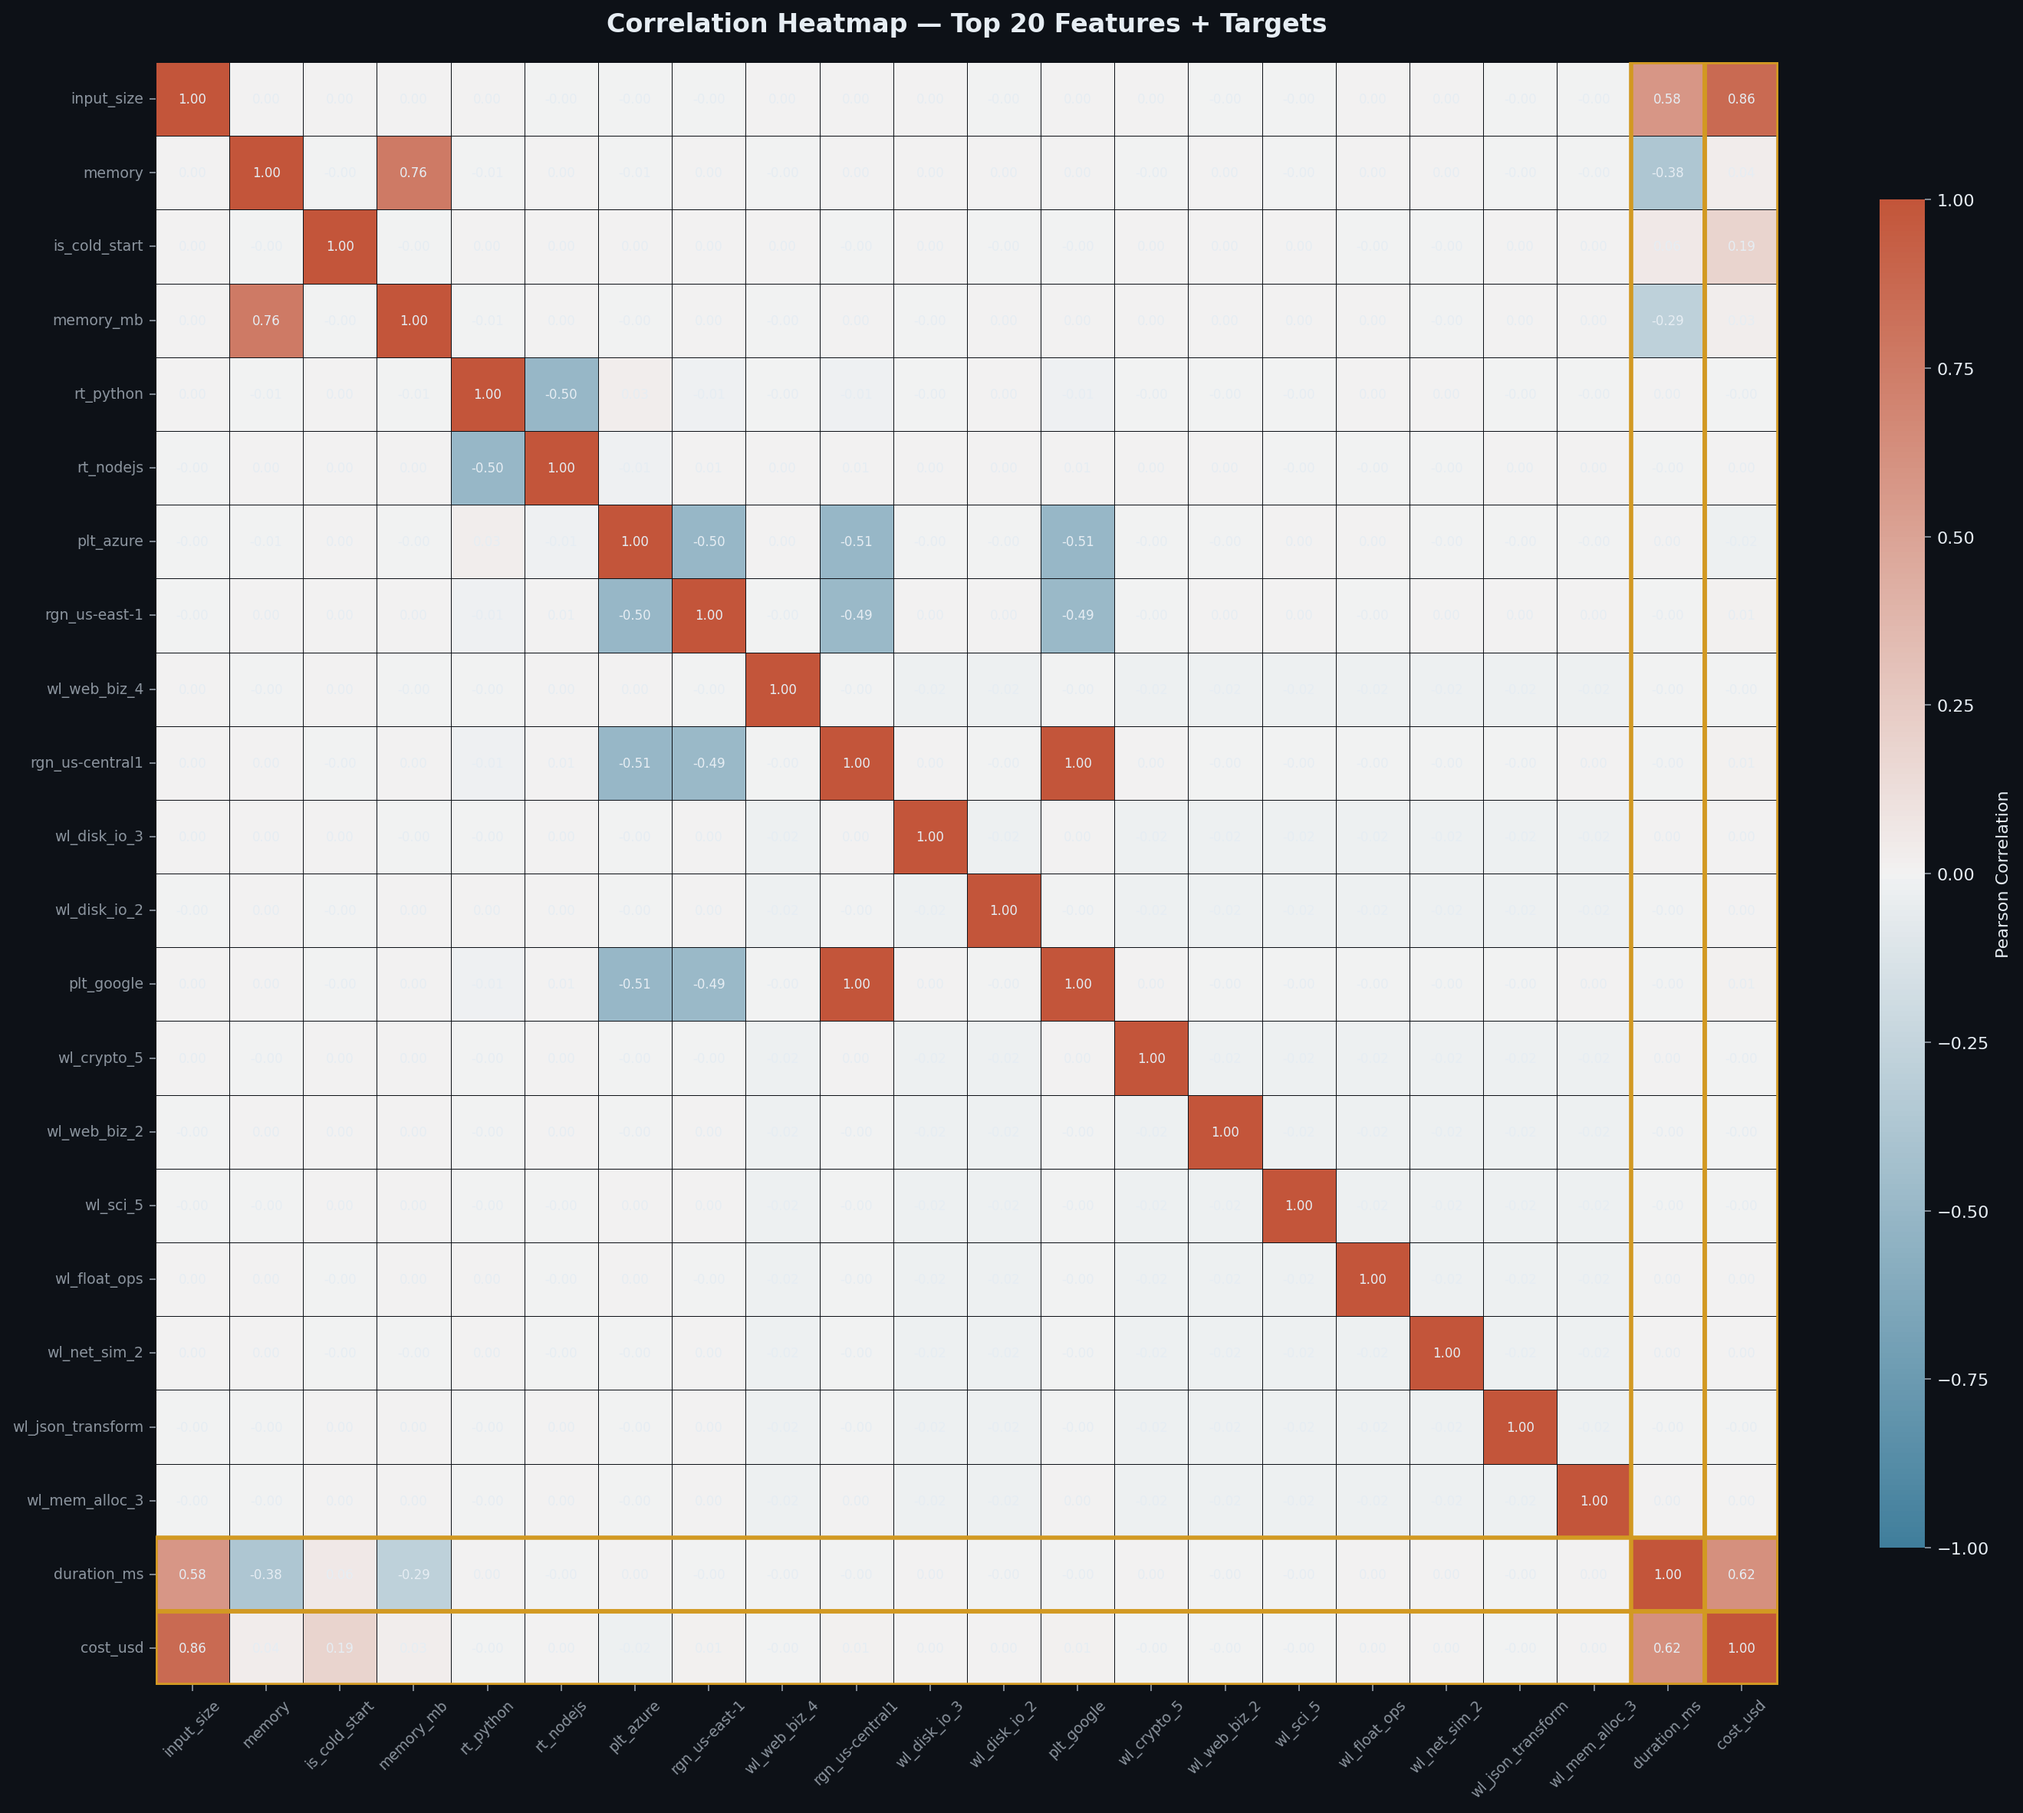
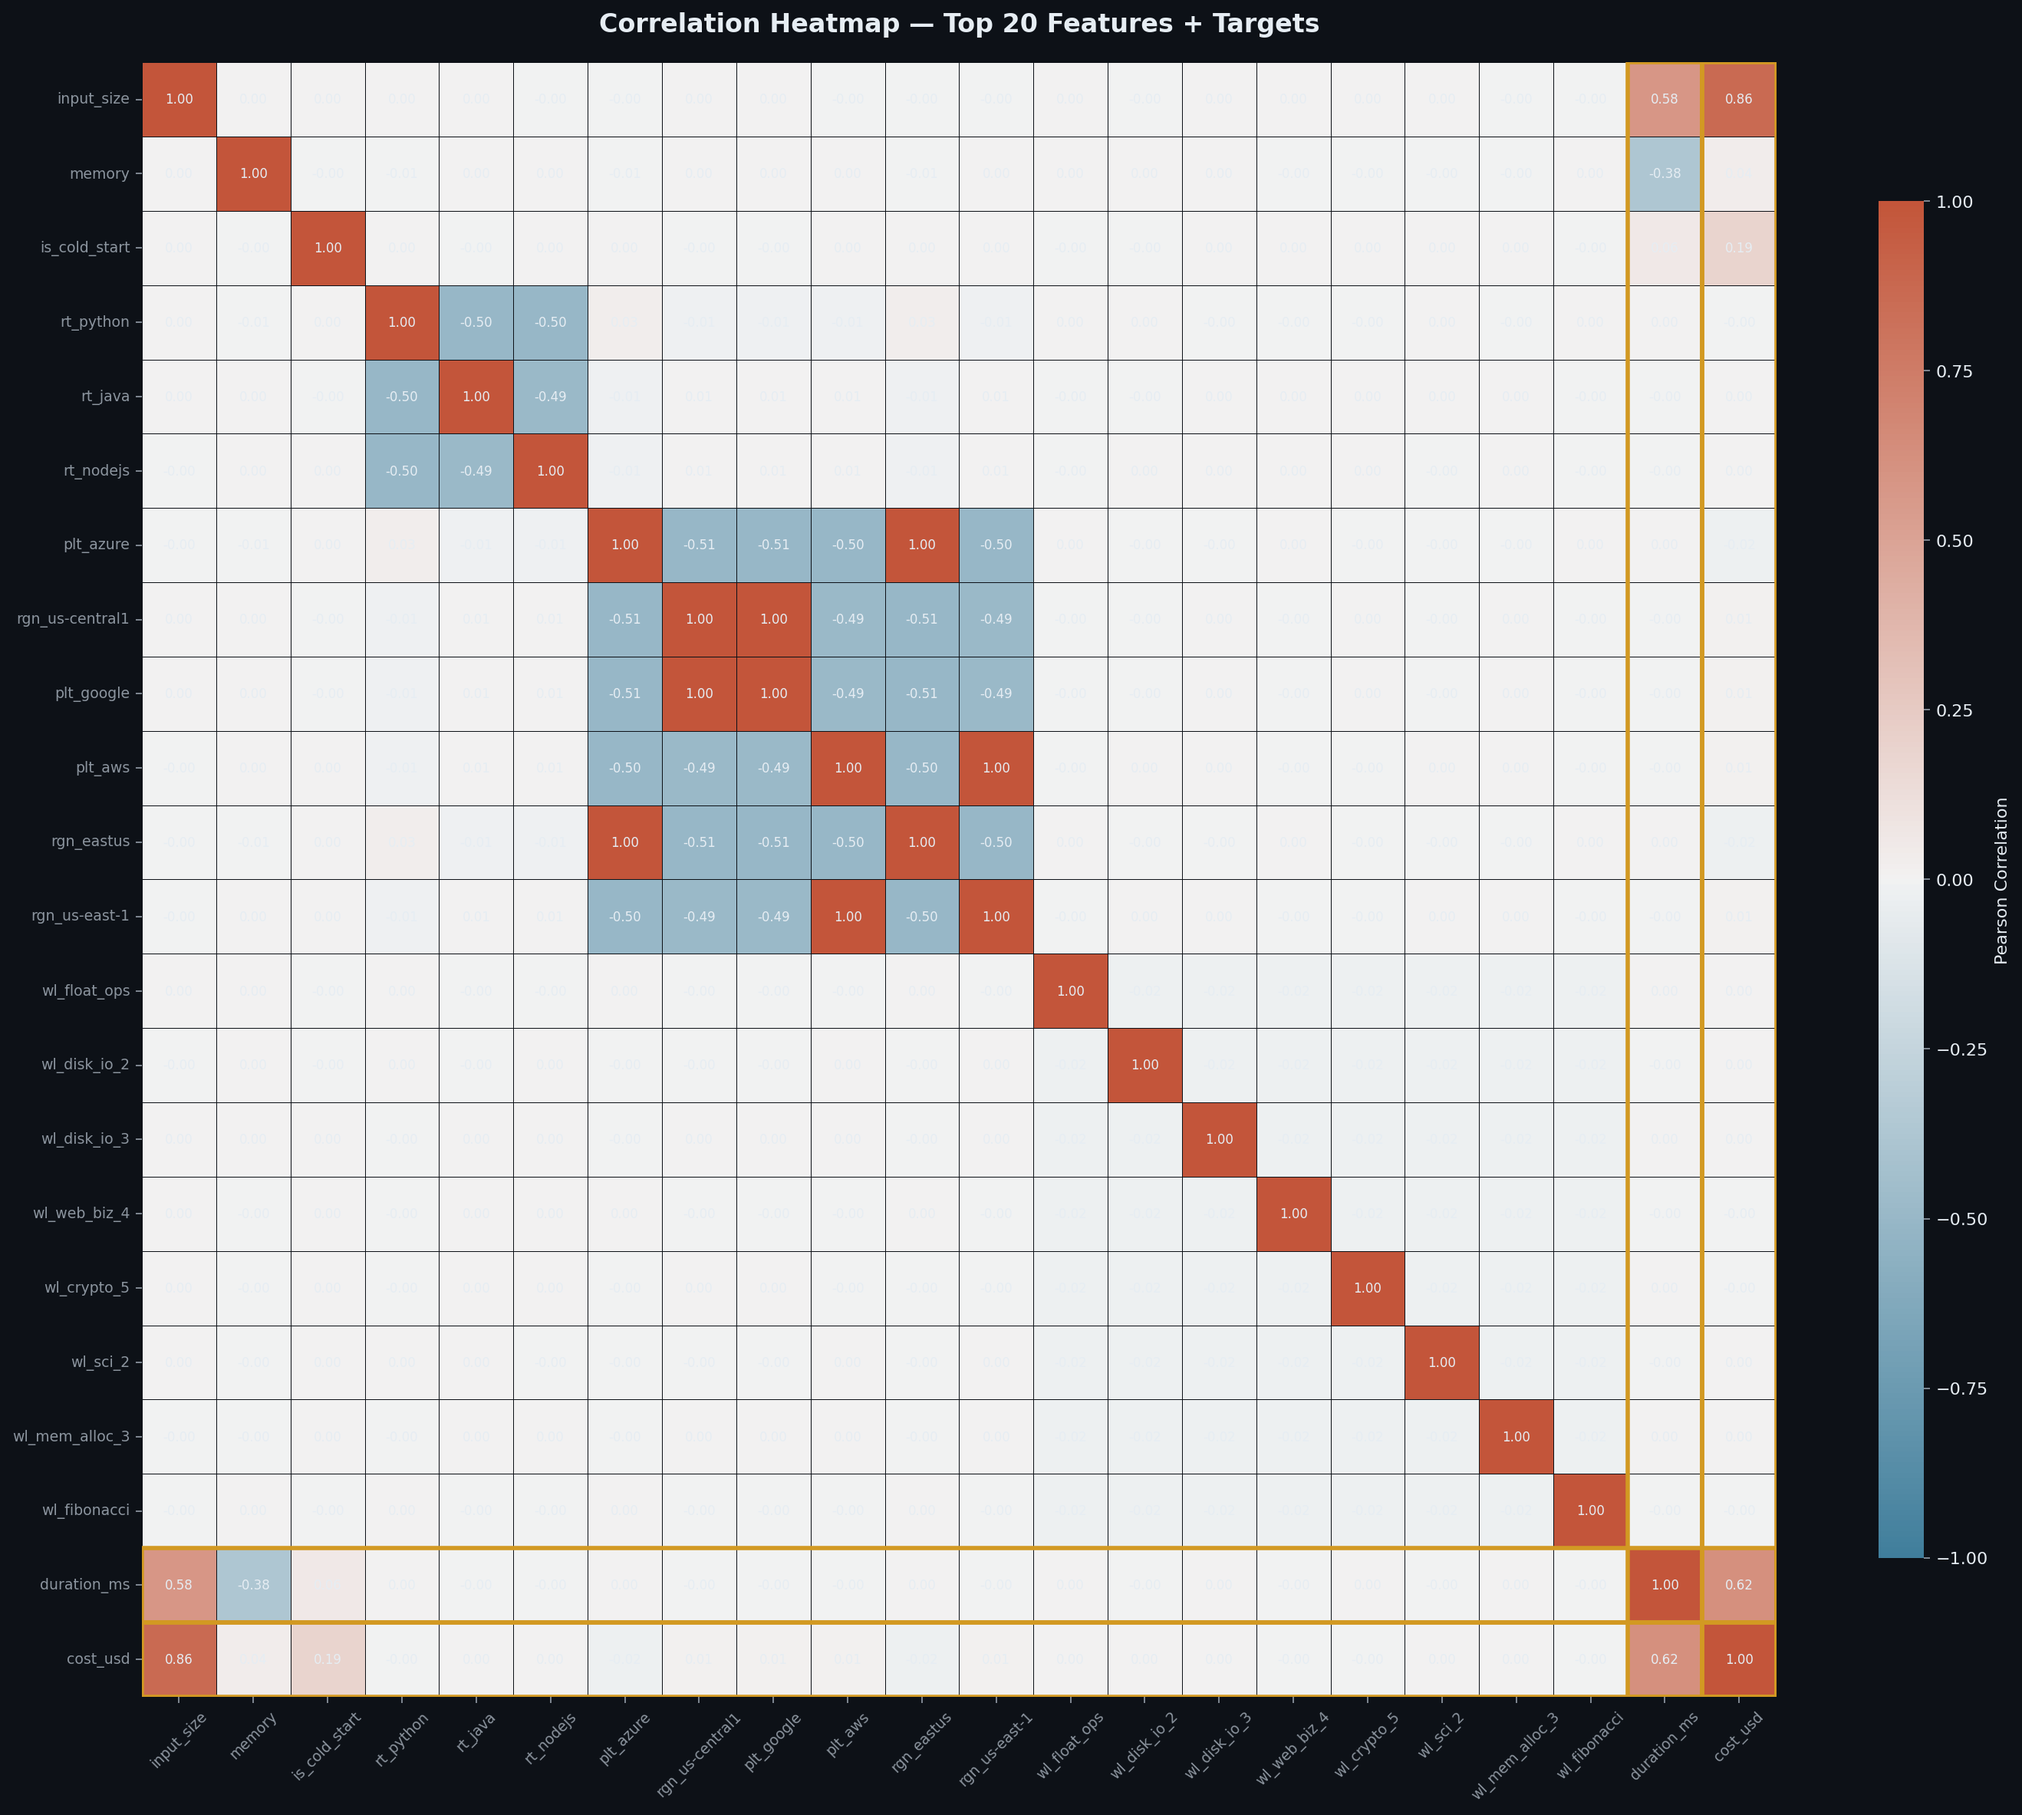
feat: add dataset analysis script and generate diagnostic report visualizations

diff --git a/scripts/dataset_analysis.py b/scripts/dataset_analysis.py
@@ -45,14 +45,19 @@ print("=" * 70)
 print("  ML DATASET ANALYSIS  —  ml_ready_dataset.csv")
 print("=" * 70)
 
-df = pd.read_csv("ml_ready_dataset.csv")
+
+from pathlib import Path
+base_dir = Path(__file__).resolve().parent.parent
+dataset_path = base_dir / "data" / "ml_ready_dataset" / "ml_ready_dataset.csv"
+
+df = pd.read_csv(dataset_path)
 print(f"\n  Loaded  {df.shape[0]:,} rows  x  {df.shape[1]} columns")
 
 bool_cols     = df.select_dtypes(include="bool").columns.tolist()
-workload_cols = [c for c in bool_cols if c.startswith("workload_")]
+workload_cols = [c for c in df.columns if c.startswith("workload_")]
 platform_cols = [c for c in df.columns if c.startswith("platform_")]
 
-# Convert bools to int for numeric analysis
+# Convert bools to int for numeric analysis if any boolean types exist
 df_num = df.copy()
 for c in bool_cols:
     df_num[c] = df_num[c].astype(int)
@@ -81,9 +86,10 @@ for i, (f, v) in enumerate(imp_cost.head(TOP_N).items(), 1):
     print(f"  {i:2d}. {f:<42s} {v:.4f}")
 
 # ─── Platform/Workload stats ──────────────────────────────────────────────────
-row_workload_sum = df_num[workload_cols].sum(axis=1)
-plat_sum         = df_num[platform_cols].sum(axis=1)
-corr_m           = df["memory"].corr(df["memory_mb"])
+row_workload_sum = df_num[workload_cols].sum(axis=1) if workload_cols else pd.Series(0, index=df.index)
+plat_sum         = df_num[platform_cols].sum(axis=1) if platform_cols else pd.Series(0, index=df.index)
+has_mem_mb       = "memory_mb" in df.columns
+corr_m           = df["memory"].corr(df["memory_mb"]) if has_mem_mb else None
 
 # ─── Plot 1: Feature Importance ───────────────────────────────────────────────
 import os; os.makedirs("reports", exist_ok=True)
@@ -164,40 +170,64 @@ fig.suptitle("Dataset Problems — Bool Encoding, Orphaned Rows & Duplicate Feat
 
 # 3a — Workload coverage pie
 ax = axes[0]
-sizes  = [(row_workload_sum > 0).sum(), (row_workload_sum == 0).sum()]
+orphaned_count = (row_workload_sum == 0).sum()
+sizes  = [(row_workload_sum > 0).sum(), orphaned_count]
 colors = [ACCENT2, ACCENT3]
 labels = [f"Has Label\n({sizes[0]:,})", f"Orphaned\n({sizes[1]:,})"]
 wedges, texts, autotexts = ax.pie(sizes, labels=labels, colors=colors, autopct="%1.1f%%",
     startangle=140, wedgeprops=dict(edgecolor=DARK_BG, lw=2),
     textprops=dict(color=TEXT_COL, fontsize=10))
 for at in autotexts: at.set_color(DARK_BG); at.set_fontsize(10)
-ax.set_title("Workload Coverage\n(float_ops = implicit reference)", color=ACCENT3, fontsize=11)
+title_wl = "Workload Coverage\n(100% labeled - fixed)" if orphaned_count == 0 else "Workload Coverage\n(float_ops = implicit reference)"
+ax.set_title(title_wl, color=ACCENT2 if orphaned_count == 0 else ACCENT3, fontsize=11)
 
 # 3b — Platform distribution
 ax = axes[1]
-plat_data = {"AWS (implicit)": (plat_sum == 0).sum(),
-             "Azure": df["platform_azure"].sum(),
-             "Google": df["platform_google"].sum()}
+if "platform_aws" in df.columns:
+    plat_data = {
+        "AWS": int(df["platform_aws"].sum()),
+        "Azure": int(df["platform_azure"].sum()),
+        "Google": int(df["platform_google"].sum())
+    }
+    plat_title = "Platform Distribution\n(All platforms explicit - fixed)"
+else:
+    plat_data = {
+        "AWS (implicit)": int((plat_sum == 0).sum()),
+        "Azure": int(df["platform_azure"].sum()),
+        "Google": int(df["platform_google"].sum())
+    }
+    plat_title = "Platform Distribution\n(AWS has no explicit column)"
+
 bars = ax.bar(plat_data.keys(), plat_data.values(),
               color=[ACCENT4, ACCENT1, ACCENT2], edgecolor="none", width=0.5)
 for bar, val in zip(bars, plat_data.values()):
     ax.text(bar.get_x() + bar.get_width()/2, bar.get_height() + 1500,
             f"{val:,}", ha="center", fontsize=10, color=TEXT_COL, fontweight="bold")
-ax.set_title("Platform Distribution\n(AWS has no explicit column)", color=ACCENT4, fontsize=11)
+ax.set_title(plat_title, color=ACCENT4, fontsize=11)
 ax.set_ylabel("Row count"); ax.grid(axis="y", alpha=0.3)
 ax.spines[["top","right"]].set_visible(False)
 
-# 3c — memory vs memory_mb scatter
+# 3c — memory vs memory_mb scatter or memory vs duration
 ax = axes[2]
-s = df.sample(5000, random_state=1)
-sc = ax.scatter(s["memory"], s["memory_mb"], alpha=0.25, s=8,
-                c=s["duration_ms"], cmap="plasma")
-ax.set_xlabel("memory (allocated tier, MB)")
-ax.set_ylabel("memory_mb (actual used, MB)")
-ax.set_title(f"Duplicate Feature Problem\ncorr(memory, memory_mb) = {corr_m:.3f}", color=ACCENT1, fontsize=11)
-cb = plt.colorbar(sc, ax=ax, pad=0.02)
-cb.set_label("duration_ms", color=TEXT_COL, fontsize=9)
-plt.setp(cb.ax.yaxis.get_ticklabels(), color=TEXT_COL)
+s = df.sample(min(5000, len(df)), random_state=1)
+if has_mem_mb:
+    sc = ax.scatter(s["memory"], s["memory_mb"], alpha=0.25, s=8,
+                    c=s["duration_ms"], cmap="plasma")
+    ax.set_xlabel("memory (allocated tier, MB)")
+    ax.set_ylabel("memory_mb (actual used, MB)")
+    ax.set_title(f"Duplicate Feature Problem\ncorr(memory, memory_mb) = {corr_m:.3f}", color=ACCENT1, fontsize=11)
+    cb = plt.colorbar(sc, ax=ax, pad=0.02)
+    cb.set_label("duration_ms", color=TEXT_COL, fontsize=9)
+    plt.setp(cb.ax.yaxis.get_ticklabels(), color=TEXT_COL)
+else:
+    sc = ax.scatter(s["memory"], s["duration_ms"], alpha=0.25, s=8,
+                    c=s["cost_usd"], cmap="viridis")
+    ax.set_xlabel("memory (allocated tier, MB)")
+    ax.set_ylabel("duration_ms")
+    ax.set_title("Memory Tier vs Duration\n(memory_mb dropped - clean)", color=ACCENT1, fontsize=11)
+    cb = plt.colorbar(sc, ax=ax, pad=0.02)
+    cb.set_label("cost_usd", color=TEXT_COL, fontsize=9)
+    plt.setp(cb.ax.yaxis.get_ticklabels(), color=TEXT_COL)
 ax.grid(alpha=0.3); ax.spines[["top","right"]].set_visible(False)
 
 plt.tight_layout()
